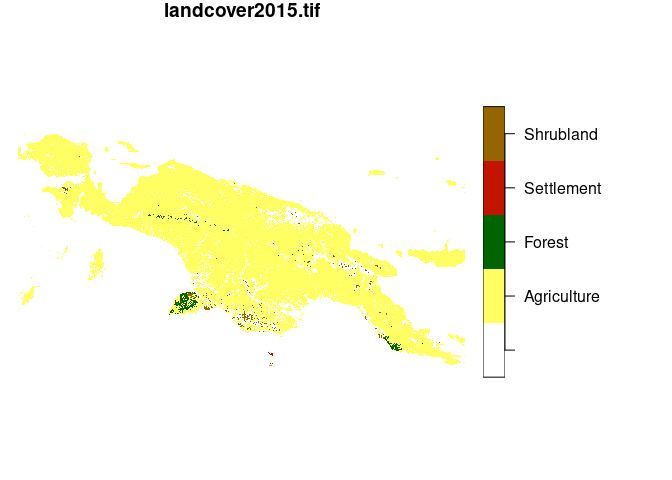
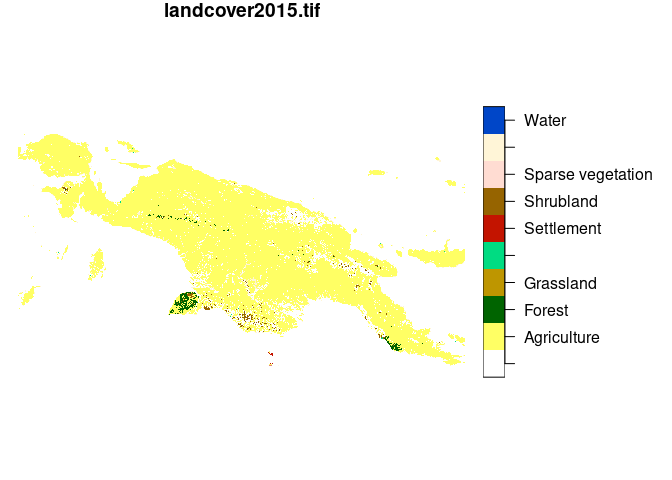
adds text to readme

Changed region(s): [[0.7188, 0.2188, 0.9688, 0.75], [0.7812, 0.5625, 0.9062, 0.6562]]

diff --git a/README.md b/README.md
@@ -40,7 +40,12 @@ remotes::install_github("Nowosad/motif")
 
 ## Example
 
-### Signatures
+The **motif** package works on raster data represented by `stars`
+objects. It has several example datasets, including
+`"raster/landcover2015.tif"`. This file contains a land cover data for
+New Guinea, with seven possible categories: (1) agriculture, (2) forest,
+(3) grassland, (5) settlement, (6) shrubland, (7) sparse vegetation, and
+(9) water.
 
 ``` r
 library(motif)
@@ -49,11 +54,77 @@ library(stars)
 #> Loading required package: sf
 #> Linking to GEOS 3.8.0, GDAL 3.0.4, PROJ 7.0.0
 landcover = read_stars(system.file("raster/landcover2015.tif", package = "motif"))
-landcover = droplevels(landcover)
+# landcover = droplevels(landcover)
 plot(landcover, key.pos = 4, key.width = lcm(5))
 ```
 
 <img src="man/figures/README-unnamed-chunk-2-1.png" width="100%" />
+
+### Signatures
+
+We can see that most of the island is covered by forest, with some
+agriculture and smaller areas of the other classes. It is also
+reasonably easy to describe this proportions (so called composition)
+numericaly - we just need to count cells of each category for the whole
+data.
+
+We can use the `lsp_thumbprint()` function for this. It requires a
+`stars` object as the first input and the type of a signature to
+calculate - `"composition"` in this case. There are also several
+additional arguments, including `threshold` - a share (between 0 and 1)
+of NA cells to allow signature calculation and `normalization` -
+decision if the output vector should be normalized.
+
+``` r
+landcover_comp = lsp_thumbprint(landcover, 
+                                type = "composition",
+                                threshold = 1,
+                                normalization = "none")
+landcover_comp
+#> # A tibble: 1 x 3
+#>      id na_prop signature        
+#> * <int>   <dbl> <list>           
+#> 1     1   0.666 <int[,7] [1 × 7]>
+```
+
+The output of `lsp_thumbprint()` has a new class `lsp`. It is a tibble
+with three columns: - `id` - an id of each window (area) - `na_prop` -
+share (0-1) of `NA` cells for each window - `signature` - a list-column
+containing with calculated signatures
+
+We can take a look at the last column:
+
+``` r
+landcover_comp$signature
+#> [[1]]
+#>           1       2     3    5    6     7      9
+#> [1,] 862001 8122776 84482 4311 2677 78555 203444
+```
+
+It is a list of signatures. In this case, we have just one signature
+describing the whole area in form of a numeric vector. It contains how
+many cells belong to each land cover category. For example, there are
+8122776 cells of forest, but only 2677 cells of shrubland.
+
+<!-- However, it is not that easy to describe landscape patterns numericaly.  -->
+
+<!-- We can try to... -->
+
+<!-- ... -->
+
+<!-- ... -->
+
+Another approach would be to devide this large area into many regular
+rectangles (we refer to them as local landscapes) and to calculate a
+signature in each of them. The previously used signature,
+`"composition"` has one important flaw though. It only describes how
+many cells of each category we have. However, it does not distinguish an
+area with left half of forest and right half of agriculture from an area
+with forest mixed with agriculture (think of a checkerboard). Gladly,
+there are several more types of signatures exist. It includes a
+co-occurrence matrix (`type = "coma"`). `"coma"` goes to each cell,
+looks at its value, looks at the values of its neighbors and count how
+many neighbors of each class our central cell has.
 
 ``` r
 landcover_coma = lsp_thumbprint(landcover, type = "coma", window = 200)
@@ -61,32 +132,51 @@ landcover_coma
 #> # A tibble: 232 x 3
 #>       id na_prop signature        
 #>  * <int>   <dbl> <list>           
-#>  1     3  0.0992 <int[,5] [5 × 5]>
-#>  2     4  0.145  <int[,5] [5 × 5]>
-#>  3    38  0.255  <int[,5] [5 × 5]>
-#>  4    39  0      <int[,5] [5 × 5]>
-#>  5    40  0      <int[,5] [5 × 5]>
-#>  6    41  0      <int[,5] [5 × 5]>
-#>  7    42  0      <int[,5] [5 × 5]>
-#>  8    43  0.115  <int[,5] [5 × 5]>
-#>  9    77  0      <int[,5] [5 × 5]>
-#> 10    78  0      <int[,5] [5 × 5]>
+#>  1     3  0.0992 <int[,7] [7 × 7]>
+#>  2     4  0.145  <int[,7] [7 × 7]>
+#>  3    38  0.255  <int[,7] [7 × 7]>
+#>  4    39  0      <int[,7] [7 × 7]>
+#>  5    40  0      <int[,7] [7 × 7]>
+#>  6    41  0      <int[,7] [7 × 7]>
+#>  7    42  0      <int[,7] [7 × 7]>
+#>  8    43  0.115  <int[,7] [7 × 7]>
+#>  9    77  0      <int[,7] [7 × 7]>
+#> 10    78  0      <int[,7] [7 × 7]>
 #> # … with 222 more rows
 ```
 
+Now, we have one row per local landscape, where each local landscape is
+described by an id (`id`), proportion of cells with `NA`s (`na_prop`),
+and a signature (`signature`). For example, the first signature looks
+like this:
+
 ``` r
 landcover_coma$signature[[1]]
-#>      1      2 3 4 5
-#> 1 1514    280 0 0 0
-#> 2  280 141250 0 0 0
-#> 3    0      0 0 0 0
-#> 4    0      0 0 0 0
-#> 5    0      0 0 0 0
+#>    1      2 3 5 6 7    9
+#> 1 32     47 0 2 0 0    6
+#> 2 47 141250 0 7 0 0  226
+#> 3  0      0 0 0 0 0    0
+#> 5  2      7 0 4 0 0    0
+#> 6  0      0 0 0 0 0    0
+#> 7  0      0 0 0 0 0    0
+#> 9  6    226 0 0 0 0 1462
 ```
 
-<!-- ref to vig -->
+It is a matrix where each row and column represent subsequent land cover
+classes. For example, 141250 times forest cell is next to anther forest
+cell, and 226 times water cell is next to forest cell. You can learn
+more about this signature at
+<https://nowosad.github.io/comat/articles/coma.html>.
+
+Importantly, this and some other signatures can be used not only to
+describe landscapes, but also to search for other similar landscapes,
+compare landscapes, and cluster them.
 
 <!-- create a summary image -->
+
+You can find examples of each of above applications in the vignettes:
+
+<!-- ref to vig -->
 
 <!-- ### Search -->
 
